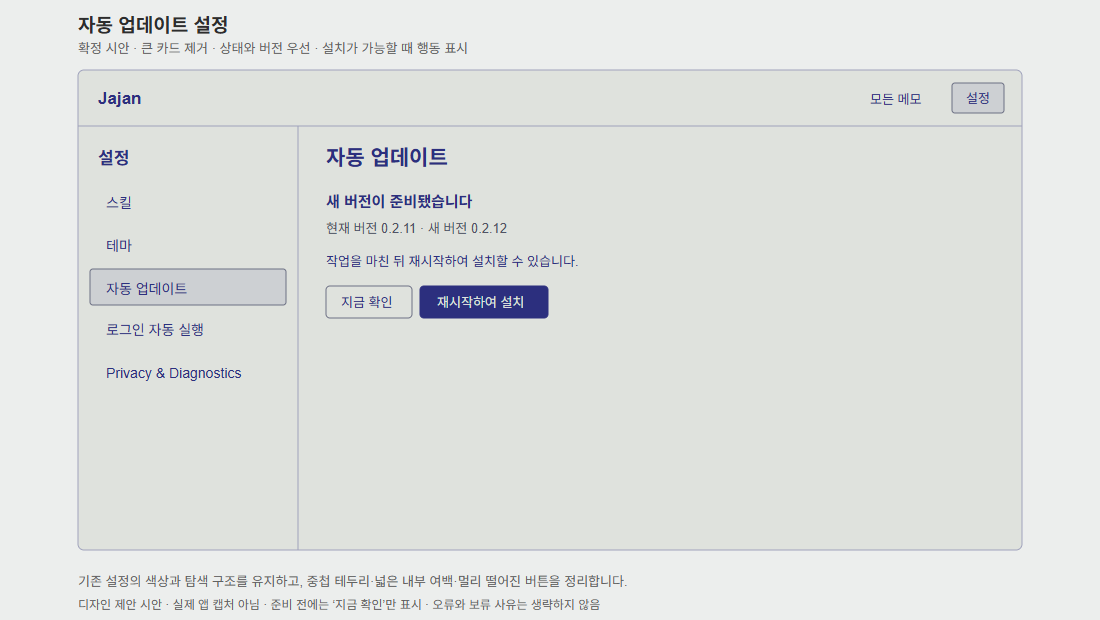
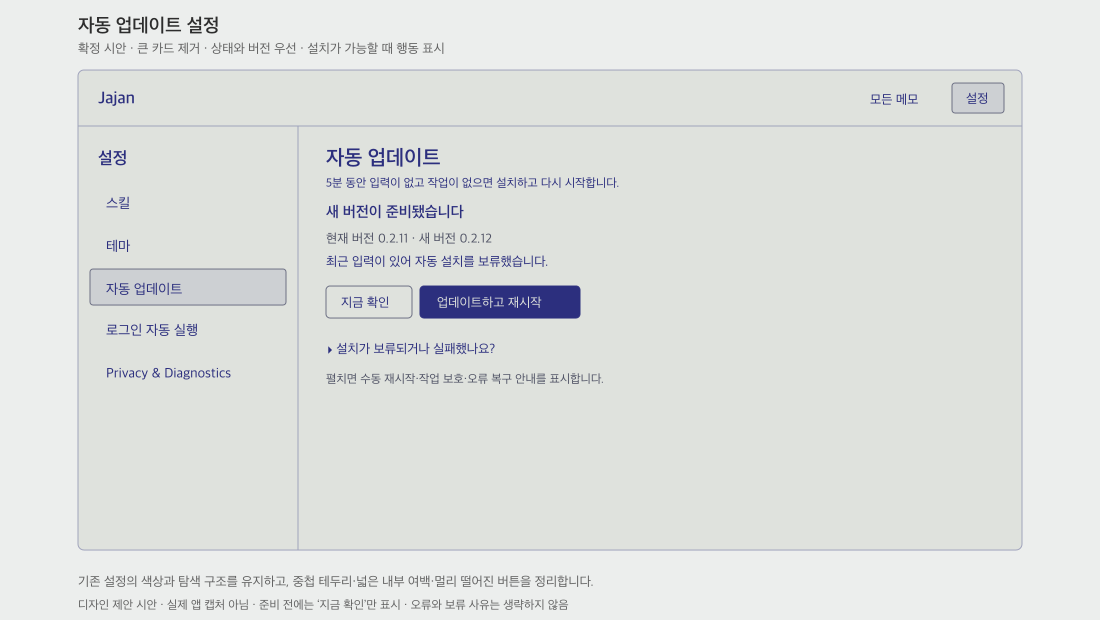
업데이트 설치 조건과 복구 안내를 명확히 하고 0.3.11을 준비
자동 유휴 설치와 수동 재시작의 작업 보호를 구분하고 안내 닫기·진행·오류 복구 문구를 정리한다. 설치 자산 조사·디자인 시안·브라우저 검증을 기록한다. Rust 328개와 UI 250개 및 Clippy·Rustfmt·모의 IPC 브라우저 검증 통과.

diff --git a/ui/manager.html b/ui/manager.html
@@ -58,13 +58,15 @@
 <section id="settings-skills" aria-labelledby="settings-skills-title" hidden><h2 id="settings-skills-title">스킬</h2><p id="skills-loading" role="status">스킬을 불러오는 중입니다.</p><p id="skills-feedback" class="settings-feedback" role="alert" hidden></p><div id="skills-list"></div></section>
 <section id="settings-updater" aria-labelledby="settings-updater-title" hidden>
 <h2 id="settings-updater-title">자동 업데이트</h2>
+<p class="updater-policy">공식 설치본은 새 버전을 자동으로 내려받습니다. 5분 동안 입력이 없고 진행 중인 작업이 없으면 설치하고 다시 시작합니다.</p>
 <article class="updater-card">
 <div class="updater-summary">
 <div><p id="updater-status" role="status" aria-live="polite">업데이트 상태를 확인하는 중입니다.</p><p id="updater-version"></p></div>
 </div>
 <div class="updater-progress-row"><progress id="updater-progress" max="1" value="0" hidden></progress><p id="updater-message" role="status" aria-live="polite"></p></div>
-<div class="updater-actions"><button id="updater-check" type="button">지금 확인</button><button id="updater-install" type="button" disabled>재시작하여 설치</button></div>
+<div class="updater-actions"><button id="updater-check" type="button">지금 확인</button><button id="updater-install" type="button" disabled>업데이트하고 재시작</button></div>
 </article>
+<details class="updater-help"><summary>설치가 보류되거나 실패했나요?</summary><p>‘업데이트하고 재시작’은 5분 대기만 생략합니다. 편집·저장·내보내기와 캡처를 마치고, 실행 중인 터미널을 종료한 뒤 숨긴 터미널도 관리 창에서 삭제하세요. 작업이 안전한지 확인한 후 설치합니다.</p><p>안내 닫기는 자동 설치를 끄지 않습니다. 보류 조건이 해소되면 자동으로 다시 확인합니다. 응답 대기 시간이 초과되면 작업을 저장하고 다시 시도하세요.</p><p>다운로드·검증 오류는 연결 상태를 확인한 뒤 ‘다시 확인’으로 다시 받으세요. 반복되면 공식 릴리스의 운영체제와 CPU에 맞는 설치 파일로 수동 설치하세요. 검증 실패를 무시하고 설치하지 않습니다.</p></details>
 </section>
 </div></section>
 <section id="privacy-welcome" aria-labelledby="privacy-welcome-title">

diff --git a/ui/updater.js b/ui/updater.js
@@ -35,6 +35,8 @@ function renderUpdater(status) {
   message.setAttribute('role', phase === 'error' ? 'alert' : 'status');
   message.hidden = !message.textContent;
   updaterEl('updater-check').disabled = updaterBusy || phase === 'disabled' || ['checking', 'downloading', 'preparing', 'installing'].includes(phase);
+  updaterEl('updater-check').textContent = phase === 'error' ? '다시 확인' : '지금 확인';
+  updaterEl('updater-install').textContent = phase === 'preparing' ? '작업 상태 확인 중…' : phase === 'installing' ? '설치하고 재시작 중…' : '업데이트하고 재시작';
   updaterEl('updater-install').disabled = updaterBusy || phase !== 'ready';
   updaterEl('updater-install').hidden = !['ready', 'preparing', 'installing'].includes(phase);
 }

diff --git a/ui/updater-notice.js b/ui/updater-notice.js
@@ -22,6 +22,7 @@ function renderNotice(status) {
   message.textContent = noticeStatus.message || '업데이트 상태를 확인하지 못했습니다.';
   message.setAttribute('role', phase === 'error' ? 'alert' : 'status');
   message.hidden = phase !== 'error' && !(noticeFeedbackVersion && noticeFeedbackVersion === noticeStatus.version);
+  noticeEl('notice-install').textContent = phase === 'preparing' ? '작업 상태 확인 중…' : phase === 'installing' ? '설치하고 재시작 중…' : '업데이트하고 재시작';
   noticeEl('notice-install').disabled = noticeBusy || phase !== 'ready';
   noticeEl('notice-dismiss').disabled = noticeBusy && phase === 'installing';
 }

diff --git a/ui/manager.css b/ui/manager.css
@@ -118,3 +118,9 @@ input:focus-visible,a:focus-visible{outline:2px solid var(--manager-focus);outli
 #list .web-row{display:flex;align-items:baseline;gap:8px;justify-content:space-between}
 .web-row span:first-child{overflow:hidden;text-overflow:ellipsis}
 .web-row span:last-child{flex:none;color:var(--manager-muted)}
+
+.updater-policy, .updater-help { font-size:13px; line-height:1.6; }
+.updater-policy { margin:0 0 16px; }
+.updater-help { margin-top:16px; }
+.updater-help summary { cursor:pointer; }
+.updater-help summary:focus-visible { outline:2px solid currentColor; outline-offset:2px; }

diff --git a/ui/updater-notice.html b/ui/updater-notice.html
@@ -16,7 +16,7 @@
     <p id="notice-message" role="status" aria-live="polite" hidden></p>
     </div>
     <div class="actions">
-      <button id="notice-dismiss" type="button">나중에</button>
+      <button id="notice-dismiss" type="button" title="안내만 닫습니다. 안전한 유휴 상태에서 자동 설치는 계속됩니다.">안내 닫기</button>
       <button id="notice-install" type="button" disabled>업데이트하고 재시작</button>
     </div>
   </main>

diff --git a/src-tauri/src/updater.rs b/src-tauri/src/updater.rs
@@ -730,7 +730,7 @@ fn check_failed(current: &mut Status, previous: Option<Status>) {
     }
     current.phase = "error".into();
     current.message =
-        "업데이트를 받지 못했습니다. 네트워크 또는 서명을 확인한 뒤 다시 시도하세요".into();
+        "업데이트를 받거나 검증하지 못했습니다. 연결 상태를 확인하고 ‘다시 확인’을 누르세요. 반복되면 공식 릴리스의 설치 파일로 수동 설치하세요.".into();
 }
 async fn check(app: tauri::AppHandle, manual: bool) -> Result<(), String> {
     if !enabled() {
@@ -950,7 +950,7 @@ fn install(app: &tauri::AppHandle, automatic: bool) -> Result<(), String> {
                 break;
             }
             if Instant::now() >= deadline {
-                return Err("창의 설치 준비 응답을 기다리다 시간이 초과됐습니다".into());
+                return Err("창의 설치 준비 응답 시간이 초과됐습니다. 작업을 저장한 뒤 다시 시도하세요. 반복되면 짜잔을 수동으로 종료하고 다시 실행하세요.".into());
             }
             std::thread::sleep(Duration::from_millis(50));
         }

diff --git a/src-tauri/src/workspace.rs b/src-tauri/src/workspace.rs
@@ -146,7 +146,7 @@ pub(crate) fn shared_displays(app: &tauri::AppHandle) -> Option<Vec<u32>> {
 pub(crate) fn stop(app: &tauri::AppHandle, token: Option<&str>) -> Result<(), String> {
     let state = app.state::<Sharing>();
     let mut guard = state.0.lock().map_err(err)?;
-    if token.is_some_and(|t| !guard.as_ref().is_some_and(|s| s.token() == t)) {
+    if token.is_some_and(|t| guard.as_ref().is_none_or(|s| s.token() != t)) {
         return Err("종료된 공유입니다".into());
     }
     guard.take();

diff --git a/docs/verification/updater-policy-clarity-20261120.md b/docs/verification/updater-policy-clarity-20261120.md
@@ -1,0 +1,41 @@
+# 업데이트 안내 정책과 복구 — 2026-11-20
+
+## 조사 범위와 근거
+
+운영 앱과 GUI 입력은 팀장 담당이다. 이 작업은 설치 파일의 읽기 전용 조사와 독립 워크트리의 코드·모의 IPC 브라우저 검증만 수행한다. 타 앱의 실제 업데이트나 설정 변경을 실행하지 않았다.
+
+| 설치 앱 | Info.plist 버전 | 읽은 실제 자산 | 관찰한 정책 |
+|---|---|---|---|
+| Orca | 1.4.245 | `Contents/Resources/app.asar`의 `out/main/index.js`, preload | 메뉴 `Check for Updates…`, 확인·다운로드·quitAndInstall 분리, interactive 설치 모드·다운로드 상태·에러 처리, 자동 종료 설치 설정과 macOS staging 보호 |
+| HyperFrames | 0.1.0 | 같은 asar의 `main/autoUpdate.mjs`, `updater.mjs`, `updateRestart.mjs`, `updateFailure.mjs`, `updateMenu.mjs`, `updateHandlers.mjs`와 renderer | 자동 업데이트 저장 선택은 기본 false로 읽음. 자동 모드는 전경·busy를 피하고 away 기간을 확인. 재시작을 막는 작업 목록을 기다림. 네트워크·서명·디스크·권한 등의 복구 문구와 로그 폴더·다운로드 동작 분리 |
+
[2 lines of base64/hex data omitted]
+버전은 앱 번들의 값이며 HyperFrames의 내부 배포 label·build SHA와 동일하다고 단정하지 않는다. 자산 코드는 로컬 조사용으로만 사용하고 저장소에 복제하지 않는다.
+
+## 반영과 판단
+
+짜잔의 현재 정책을 유지하면서 사용자가 선택할 행동과 결과를 구분했다. 자동 다운로드·5분 무입력 설치, 명시 재시작이 생략하는 대기, 작업 보호, 보류·오류 복구를 기존 설정 안에 설명한다. 작은 준비 안내의 이전 합의는 유지하고 ‘나중에’만 ‘안내 닫기’로 명확히 한다. 설치·다운로드 로직과 안전 검사, 재시도 간격은 변경하지 않는다. 다른 앱의 토글·백그라운드 정책을 그대로 도입하지 않는다.
+
+`ui-ux-pro-max`의 `update deferred error recovery` 검색에서 오류 복구는 다음 행동을 제공하고 오류를 alert로 알리라는 피드백 기준을 확인했다. 기존 데스크톱 버튼·색·초점선·스크롤을 유지했다. 휴대폰 터치 영역 기준은 이 데스크톱 UI의 신규 요구로 적용하지 않았다.
+
+## 실행 출처와 검증
+
+- 루트: `/Users/egoinglee/.codex/worktrees/updater-policy-clarity/agent-gibbon`
+- 개발 인스턴스: `dev-59b93e3b0e65fcf915f63d28`
+- 개발 바이너리: 해당 루트 `src-tauri/target/debug/jajan`
+- `npm run dev:info`의 root·id·binary, `scripts/jajan-dev inspect --id updater-policy-progress`의 `ok: true`·instance·체크리스트 본문 일치를 확인했다. 운영본 CLI는 사용하지 않았다.
+- `pnpm run dev:build`: 성공. 전용 개발 CLI의 메모 생성·inspect 성공. 네이티브 GUI 입력·캡처는 수행하지 않았다.
+- `pnpm run test`: Rust 328 통과·기존 1 ignored, UI 250 통과.
+- `node --test tests/updater-ui.test.mjs tests/updater-notice.test.mjs`: 13 통과. 중복 설치 클릭·준비/오류 상태·재확인 행동·안내 닫기 의미와 기존 숨김 정책을 포함한다.
+- `scripts/updater-compact-smoke.mjs`: 실제 HTML/CSS/JS, 모의 IPC의 Chromium에서 360×140 안내의 밝음/어두움·긴 오류와 버튼 유지, 설정 8상태×3테마×2크기 통과. 캡처를 열어 좁은 검정 테마와 두 시안 PNG의 배치·문구를 확인했다. 실제 업데이트 설치를 검증한 결과가 아니다.
+- SVG 두 개를 `rsvg-convert`로 PNG 재생성하고 시각 검토했다. 설명용 시안이다.
+
+복구 도움말을 키보드 Enter로 펼치고 좁은 화면에서 가로 넘침이 없는지 추가 확인했다.
+
+최종 정적 검사·배포 빌드·CI·공개 검증 결과는 릴리스 기록에 남긴다. 실제 설치 후 포커스·메모 보존·실행 버전 확인은 팀장 검증 범위이며 이 기록의 통과에 포함하지 않는다.
+
+로컬 Clippy에서 기존 `workspace.rs`의 `nonminimal_bool` 경고를 발견했다. 동일한 토큰 불일치 판정을 `is_none_or`로 정리했다. 설치 정책 변경은 아니다.
+
+- `pnpm run check`: 0.3.11 기준 Clippy all-targets `-D warnings` 통과. `cargo fmt --check`와 `git diff --check` 통과.
+- 위험도 Low: 안내 문구·접힌 도움말·진행 버튼과 동일 동작의 부정식 정리이며 설치 경계는 유지한다. 확신도 4는 모의 IPC 브라우저 UI에 한정하며 실환경 업데이트 성공을 의미하지 않는다.

diff --git a/docs/design-system.md b/docs/design-system.md
@@ -1,3 +1,11 @@
+## 업데이트 설치 정책과 복구 안내 — 2026-11-20
+
+- 기존 360×140 비포커스 안내와 기본 설명 생략은 유지한다. ‘나중에’를 ‘안내 닫기’로 바꿔 자동 설치 중단으로 오해하지 않게 한다. 버튼 설명에는 안내만 닫고 안전한 유휴 상태의 자동 설치가 계속됨을 명시한다. 설치 시도 후 보류 사유·오류는 기존 스크롤 영역에 표시한다.
+- 설정 상단에서 공식 설치본의 자동 다운로드 → 5분 무입력과 작업 보호 확인 → 설치·재시작을 설명한다. 두 화면의 명시 행동은 ‘업데이트하고 재시작’으로 통일한다. 준비·설치 중에는 버튼에도 현재 진행을 표시한다. 오류 시 ‘다시 확인’을 제공한다.
+- 접힌 ‘설치가 보류되거나 실패했나요?’에 수동 동작은 무입력 대기만 생략한다는 점, 편집·저장·내보내기·캡처·터미널 보호, 숨긴 터미널 처리, 보류 해소 후 재검사, 응답 시간 초과 시 저장·재시도와 수동 앱 재실행, 다운로드·검증 오류의 재확인·공식 수동 설치 경로를 설명한다. 검증 실패 우회와 강제 종료는 제공하지 않는다. 자동 설치 설정이나 설치 보호 로직은 변경하지 않는다.
+- 설정의 기존 색·본문·접기·초점선·스크롤을 사용한다. 안내 창 크기·포커스·배치·숨김 정책은 유지한다. 아래 과거 ‘나중에’ 및 ‘재시작하여 설치’ 표기는 이 절의 문구로 대체한다.
+- [안내 시안](design/updater-ready-notice.svg) · [설정 시안](design/updater-settings.svg) · [설치 자산 조사와 검증](verification/updater-policy-clarity-20261120.md).
+
 ## 로그인 자동 실행 — 2026-11-20
 
 - 사용 불가 사유는 macOS 13 미만, 설치 번들 미확인, AppTranslocation, 서비스 탐색 실패(`SMAppServiceStatusNotFound`)를 구분한다. 서비스 탐색 실패를 OS 미지원으로 설명하지 않는다. 기존 상태 텍스트 영역에 원인과 Finder 재실행·공식 파일 재설치·사용자가 시스템 설정에서 직접 추가할 수 있는 경로를 안내한다. 진단에는 원시 서비스 상태와 실행 환경을 별도로 남긴다. 상태 조회·시작 시 등록, 강제 재등록, 보안 속성 제거는 하지 않는다. 레이아웃·설정 버튼 표시 조건은 그대로다. [복구 진단 검증](verification/autostart-recovery-20261120.md).
